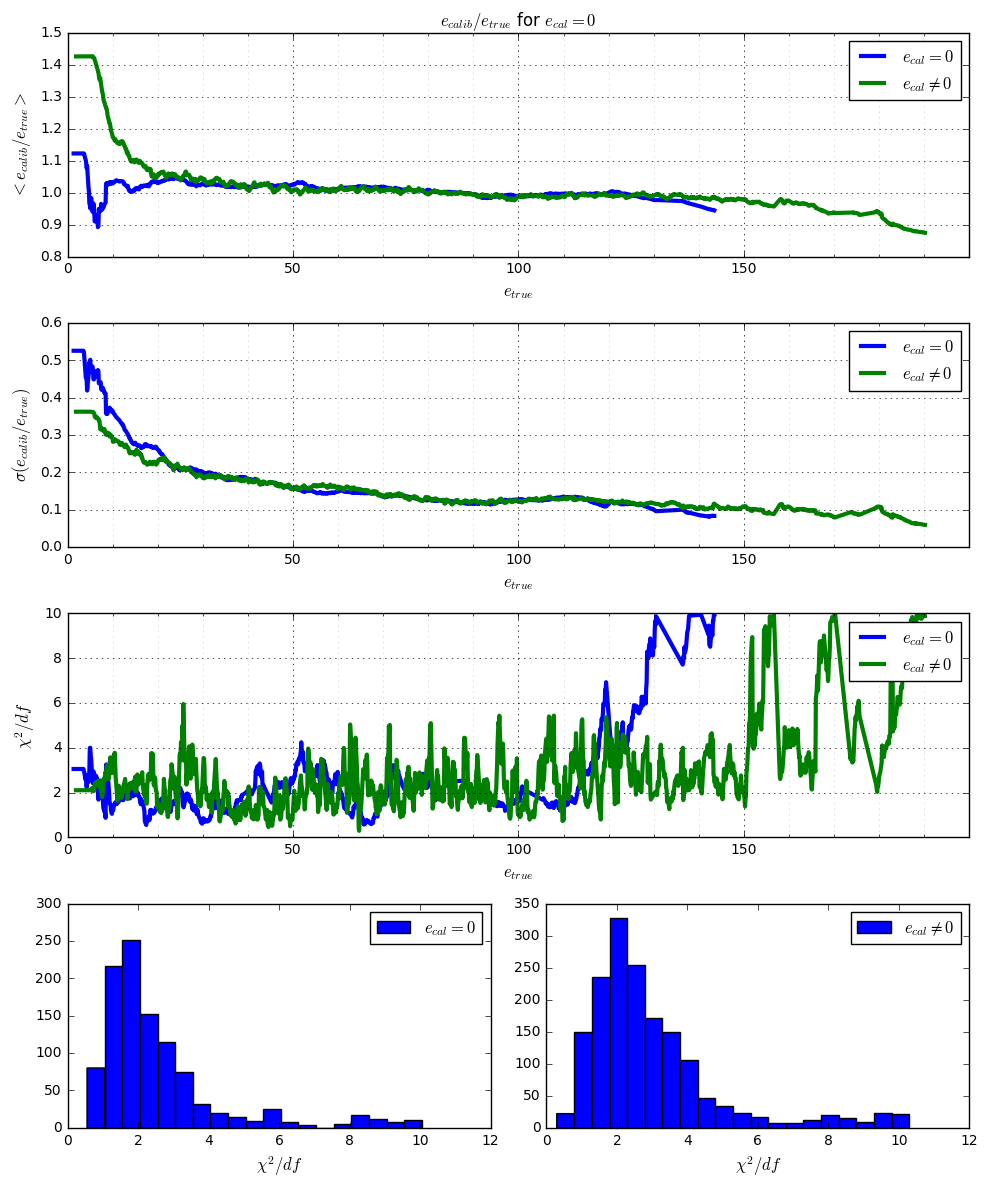
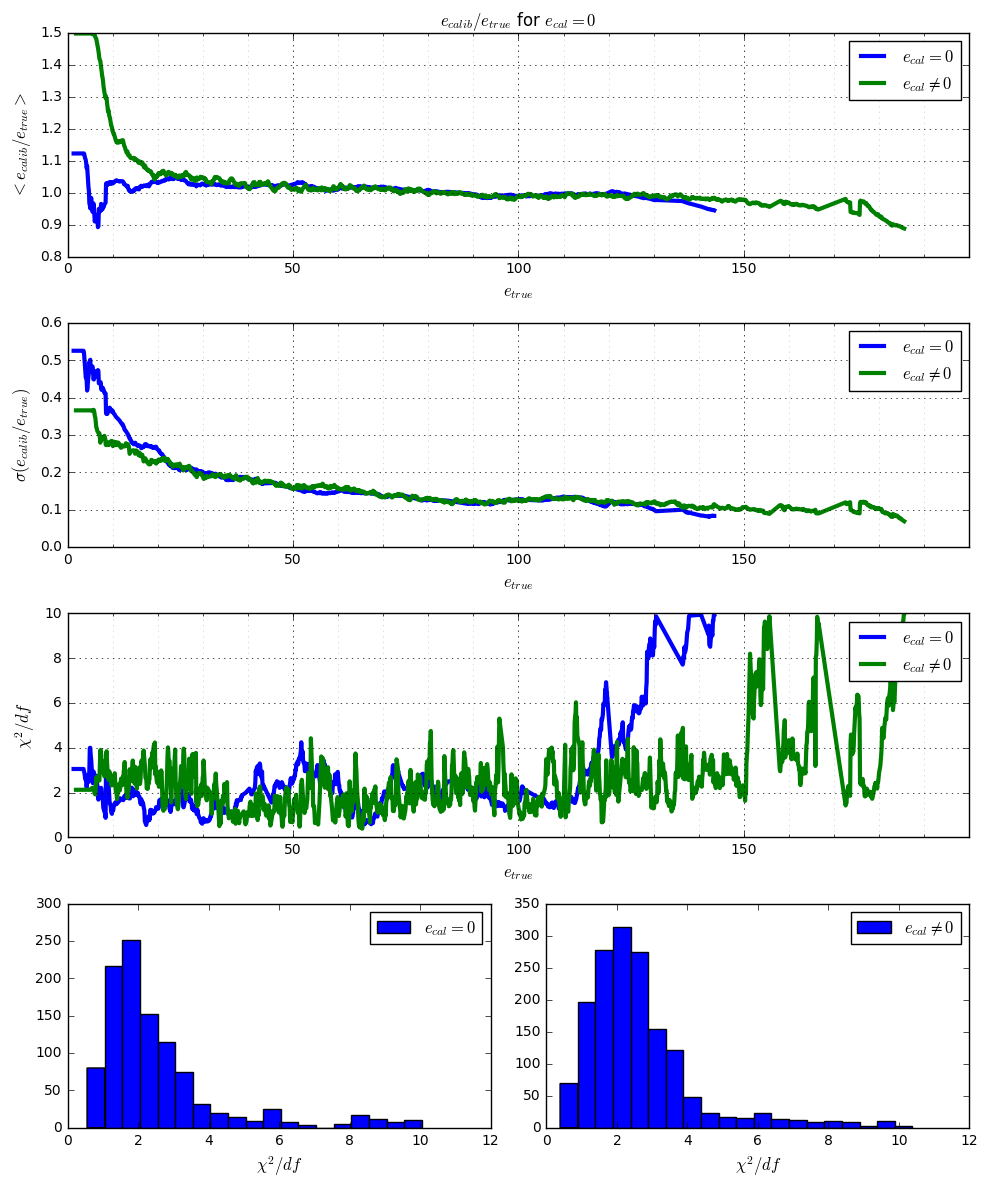
README.md index.md

diff --git a/test_KNNGF.py b/test_KNNGF.py
@@ -34,7 +34,7 @@ data1,data2 = data1.splitInTwo()
 # parameters of the calibration
 lim = 150                   # if ecal + hcal > lim, ecalib = math.nan
 n_neighbors_ecal_eq_0=2000  # number of neighbors for ecal = 0
-n_neighbors_ecal_neq_0=250  # number of neighbors for ecal ≠ 0
+n_neighbors_ecal_neq_0=1000  # number of neighbors for ecal ≠ 0
 energystep = 1
 # We create the calibration
 KNNGF = data1.KNNGaussianFit(n_neighbors_ecal_eq_0=n_neighbors_ecal_eq_0,
